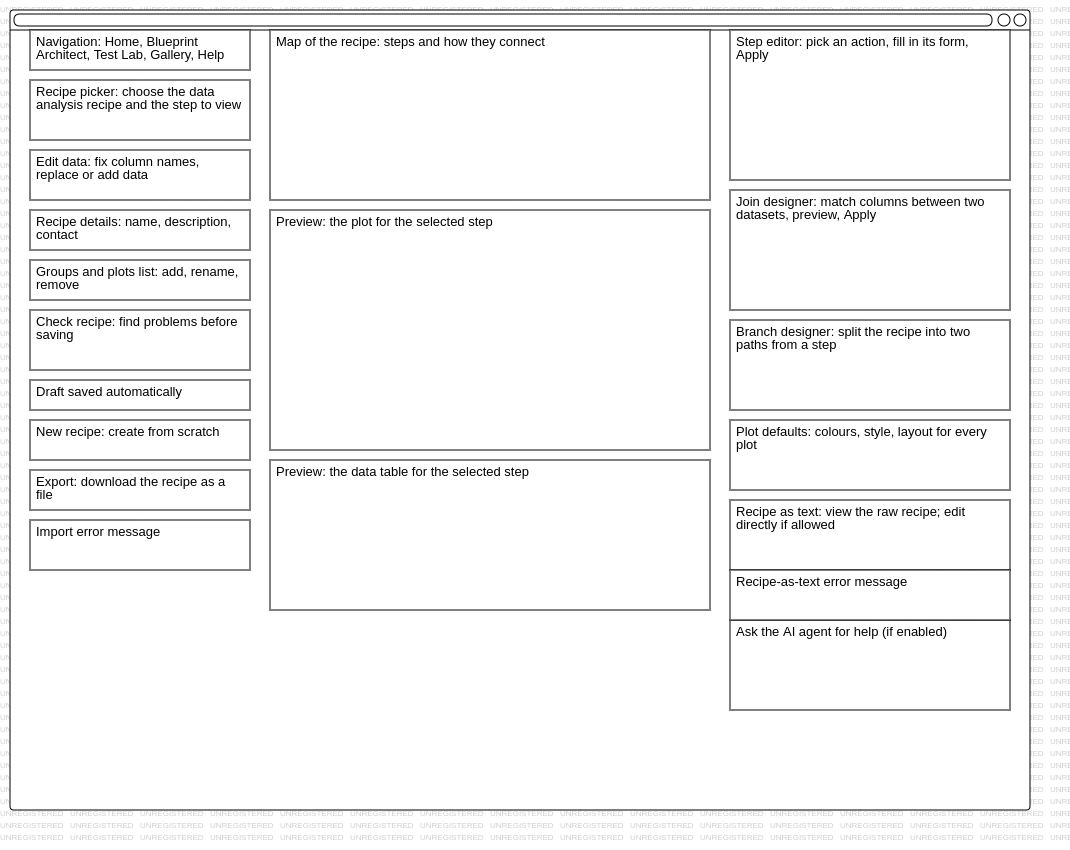
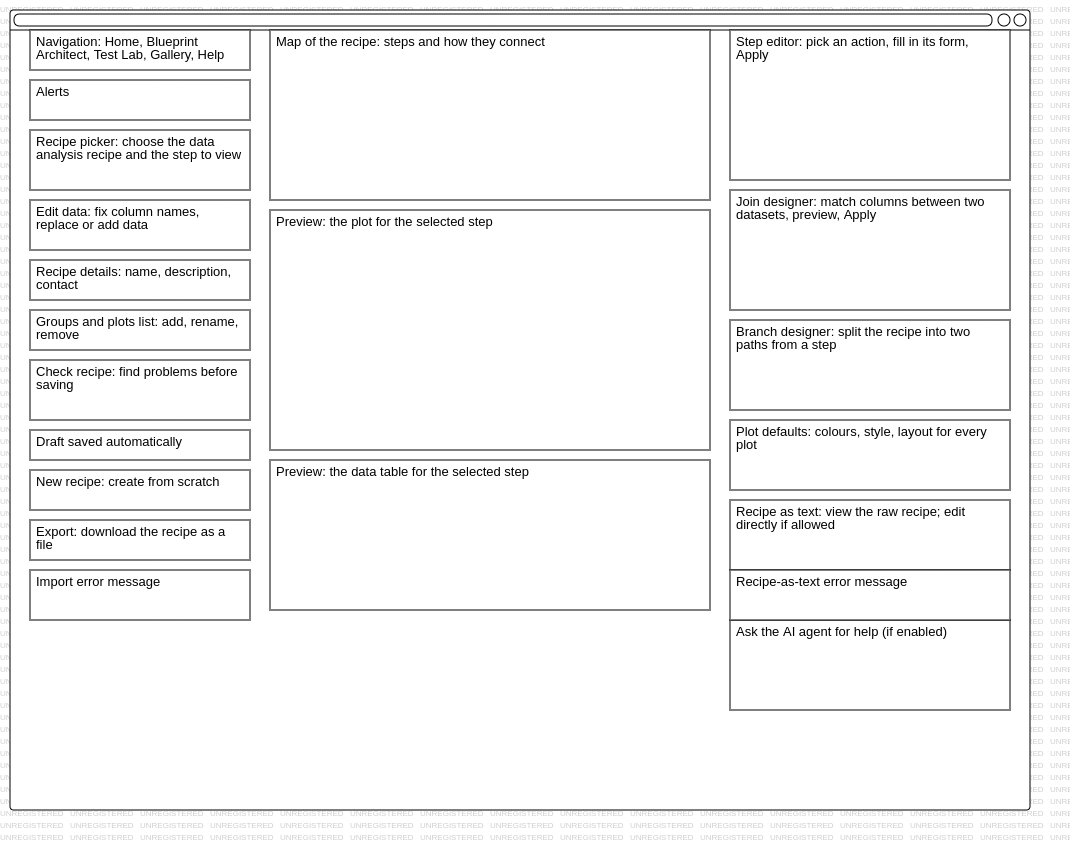
fix(uml): reposition Alerts to visually match its real app position
The previous UML sync commit (03ca17c) made Alerts a left-sidebar component in every
wireframe but left it positioned wherever there was free space, not where it actually
renders in the app (right after Navigation, before the rest of the sidebar). Eve: "the
alerts are at the wrong place... nice if visually it looks like the app, because for us
it's how we detect."

Reflowed each wireframe's left column so Alerts sits immediately under Navigation and
every other panel shifts down to keep its relative order, matching the real
Navigation -> Alerts -> accordion panels structure in app/handlers/home_theater.py.

Caught and fixed a real bug in the first reflow attempt: the panel-to-label matching
used left === 20, but labels sit inset at left === 26, so every label silently stayed
behind while its panel moved. Fixed by matching on model name and re-snapping each
label to a standard 6px inset after any bulk reposition (documented in
uml_model_plan.md as a new gotcha for future diagram edits).

Also worked around a reproducible staruml_export_diagrams staleness bug (confirmed
across 4 diagrams, 2 separate export calls each) by using staruml_diagram_image's live
render instead.

audit_uml_model.py clean (0 violations) after the change.

Refs #33

diff --git a/.claude/design/uml_model_plan.md b/.claude/design/uml_model_plan.md
@@ -187,13 +187,26 @@ registers the new object in the repository, so the push is lost on the next read
 error is raised. Fix: build the operation explicitly — `const ob = app.repository.getOperationBuilder(); ob.begin(...); ob.insert(tag); ob.fieldInsert(model, "tags", tag); ob.end(); app.repository.doOperation(ob.getOperation());` — `ob.insert(tag)` is what actually registers the
 new element; `fieldInsert` alone only pushes a reference StarUML can't resolve later.
 
-**Export gotcha (open, not chased down):** re-running `staruml_export_diagrams` after these
-edits did not refresh `UI-TESTLAB_The_screen.png` (or the other three wireframes) — same file
-size and mtime as before the edit, across two separate export calls. The `.mdj` model itself is
-correct (confirmed by direct script introspection and a clean `audit_uml_model.py` run) — this
-is a stale-bitmap/caching issue in the export path specifically, not a model-data bug. If the
-PNGs under `docs/UML/diagrams/` are needed for a visual review, regenerate them from a live
-StarUML session rather than trusting the bridge export immediately after a same-session edit.
+**Export gotcha (worked around, not fixed):** `staruml_export_diagrams` reliably fails to
+refresh a diagram's PNG after a same-session edit — confirmed across 4 separate export calls on
+4 diagrams, always returning the exact pre-edit file (same byte size, same mtime). The `.mdj`
+model itself is correct (confirmed by direct script introspection and a clean
+`audit_uml_model.py` run) — this is a stale-bitmap/caching bug in the export path, not a
+model-data bug. Workaround: call `staruml_diagram_image` (returns a live render as a tool-result
+image, bypassing whatever cache `staruml_export_diagrams` reads from) and copy that blob over the
+stale PNG in `docs/UML/diagrams/` by hand.
+
+**Position-vs-label desync gotcha (new, real bug this session):** when reflowing `WFPanelView`
+positions in bulk (shifting several panels down to make room for an inserted one), the loop that
+locates each panel's companion `WFTextView` (the visible label — see the "one `WFPanel` ... with
+one untagged `WFText` child" line above) matched on `v.left === 20`, but the text views sit
+*inset* from their panel (`panel.left + 6`, i.e. `26`, not `20`). Every text match silently
+missed, so the panel rectangles moved to their new positions but every visible label stayed
+exactly where it was — Eve caught this immediately ("the alerts are at the wrong place... nice
+if visually it looks like the app, because for us it's how we detect"). Fix: match
+panel-to-text pairs by `model.name` (unique per diagram here), not by `left`, and re-snap each
+text to `panel.left+6, panel.top+6, panel.width-12, panel.height-12` after any bulk reposition —
+don't try to preserve each panel's original bespoke inset, just standardize on 6px.
 
 UI-HOME uses StarUML's wireframe diagrams (panels, buttons, tabs as model elements). Each widget carries its Shiny id in `code` and its gate in `flag`, so the script can check it. It replaces the hand-drawn picture in `ui_panel_map_current.md`, which is already out of date (it still shows a T1/T2/T3 toggle).
 
